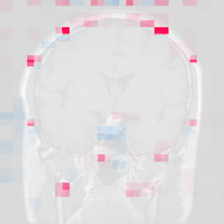
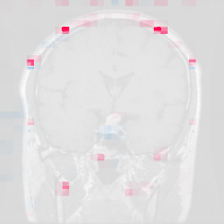
updated shapley tumor pictures to match chris's

diff --git a/Website/XAI-Carleton-Comps-2024/docs/Tumors.md b/Website/XAI-Carleton-Comps-2024/docs/Tumors.md
@@ -21,7 +21,7 @@ Anchors | LIME | Shapley
 
 ![Figure 1 - Anchor](/img/tumors/glioma-191-anchor.png "Anchors")
 ![Figure 1 - LIME](/img/tumors/glioma-191-lime.png "LIME")
-![Figure 1 - Shapley](/img/tumors/glioma_tumor-0.png "SHAP")
+![Figure 1 - Shapley](/img/tumors/glioma-191-shap.png "SHAP")
 
 LIME: The model appears relatively sure there is a tumor in this MRI scan, but incorrectly classifies a glioma tumor as a pituitary tumor. LIME is highlighting seemingly erroneous areas around the head instead of a tumor, suggesting that our ResNet model isn't looking at the tumor itself.
 
@@ -37,7 +37,7 @@ Anchors | LIME | Shapley
 
 ![Figure 2 - Anchor](/img/tumors/meningioma-252-anchor.png "Anchors")
 ![Figure 2 - LIME](/img/tumors/meningioma-252-lime.png "LIME")
-![Figure 2 - Shapley](/img/tumors/meningioma_tumor-45.png "SHAP")
+![Figure 2 - Shapley](/img/tumors/meningioma-252-shap.png "SHAP")
 
 Unlike the previous scan, this meningioma tumor is correctly classified with high certainty, which would imply that our model is performing well. However, as revealed by LIME, the explanation is highlighting seemingly unrelated areas of the head (pretty much everything except the tumor), but it also seems the top of the head has a negative correlation with this class. As a result, it's reasonable to conclude that our model is not good at recognizing tumors and simply made a lucky guess.
 

diff --git a/Website/XAI-Carleton-Comps-2024/docs/About Us.md b/Website/XAI-Carleton-Comps-2024/docs/About Us.md
@@ -1,5 +1,6 @@
 ---
 sidebar_class_name: hidden
+sidebar_position: 100
 ---
 
 import anna from "../static/img/profile_pictures/anna.jpeg";
@@ -10,13 +11,11 @@ import josh from "../static/img/profile_pictures/josh.jpg";
 import sam from "../static/img/profile_pictures/sam.jpeg";
 import tom from "../static/img/profile_pictures/tom.jpg";
 
-
-<img src={anna} alt="Anna" width="250"></img>
-
-We couldn't have done this project without our intrepid mentor, Anna Rafferty
-
-
-
 | <img src={adrian} alt="adrian" width="200"></img> | <img src={chris} alt="chris" width="200"></img> | <img src={lev} alt="lev" width="200"></img> | <img src={josh} alt="josh" width="200"></img> | <img src={sam} alt="sam" width="200"></img> | <img src={tom} alt="tom" width="200"></img> |
 | -------- | ------- | -------- | ------- | -------- | ------- |
-| Adrian Boskovic | Chris Melville | Lev Shuster | Josh Moore | Sam Johnson-Lacoss | Thomas Pree |
+| Adrian Boskovic | Chris Melville | Lev Shuster | [Josh Moore](https://learnmoore.org/josh/) | Sam Johnson-Lacoss | Thomas Pree |
+
+
+<img src={anna} alt="Anna" width="200"></img>
+
+We couldn't have done this project without our intrepid mentor, Anna Rafferty
